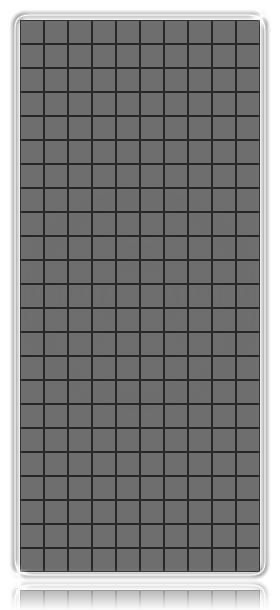
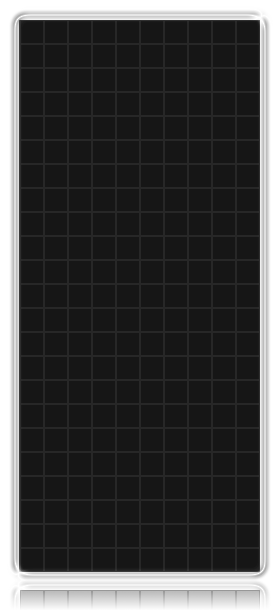
Change field transparency for better game experience
Also move version and author info from header into footer

diff --git a/index.html b/index.html
@@ -6,9 +6,6 @@
     <link rel="stylesheet" type="text/css" href="style.css">
   </head>
   <body>
-    <header>
-    Tetris v0.11. Developed by Dmitry Gavrikov.
-    </header>
     <div class="game-bg">
       <div id="game-wrapper">
         <div id="info-bar">
@@ -25,6 +22,9 @@
         </div>
       </div>
     </div>
+    <footer>
+    Tetris v0.11. Developed by Dmitry Gavrikov.
+    </footer>
 
     <script src="script.js"></script>
   </body>
